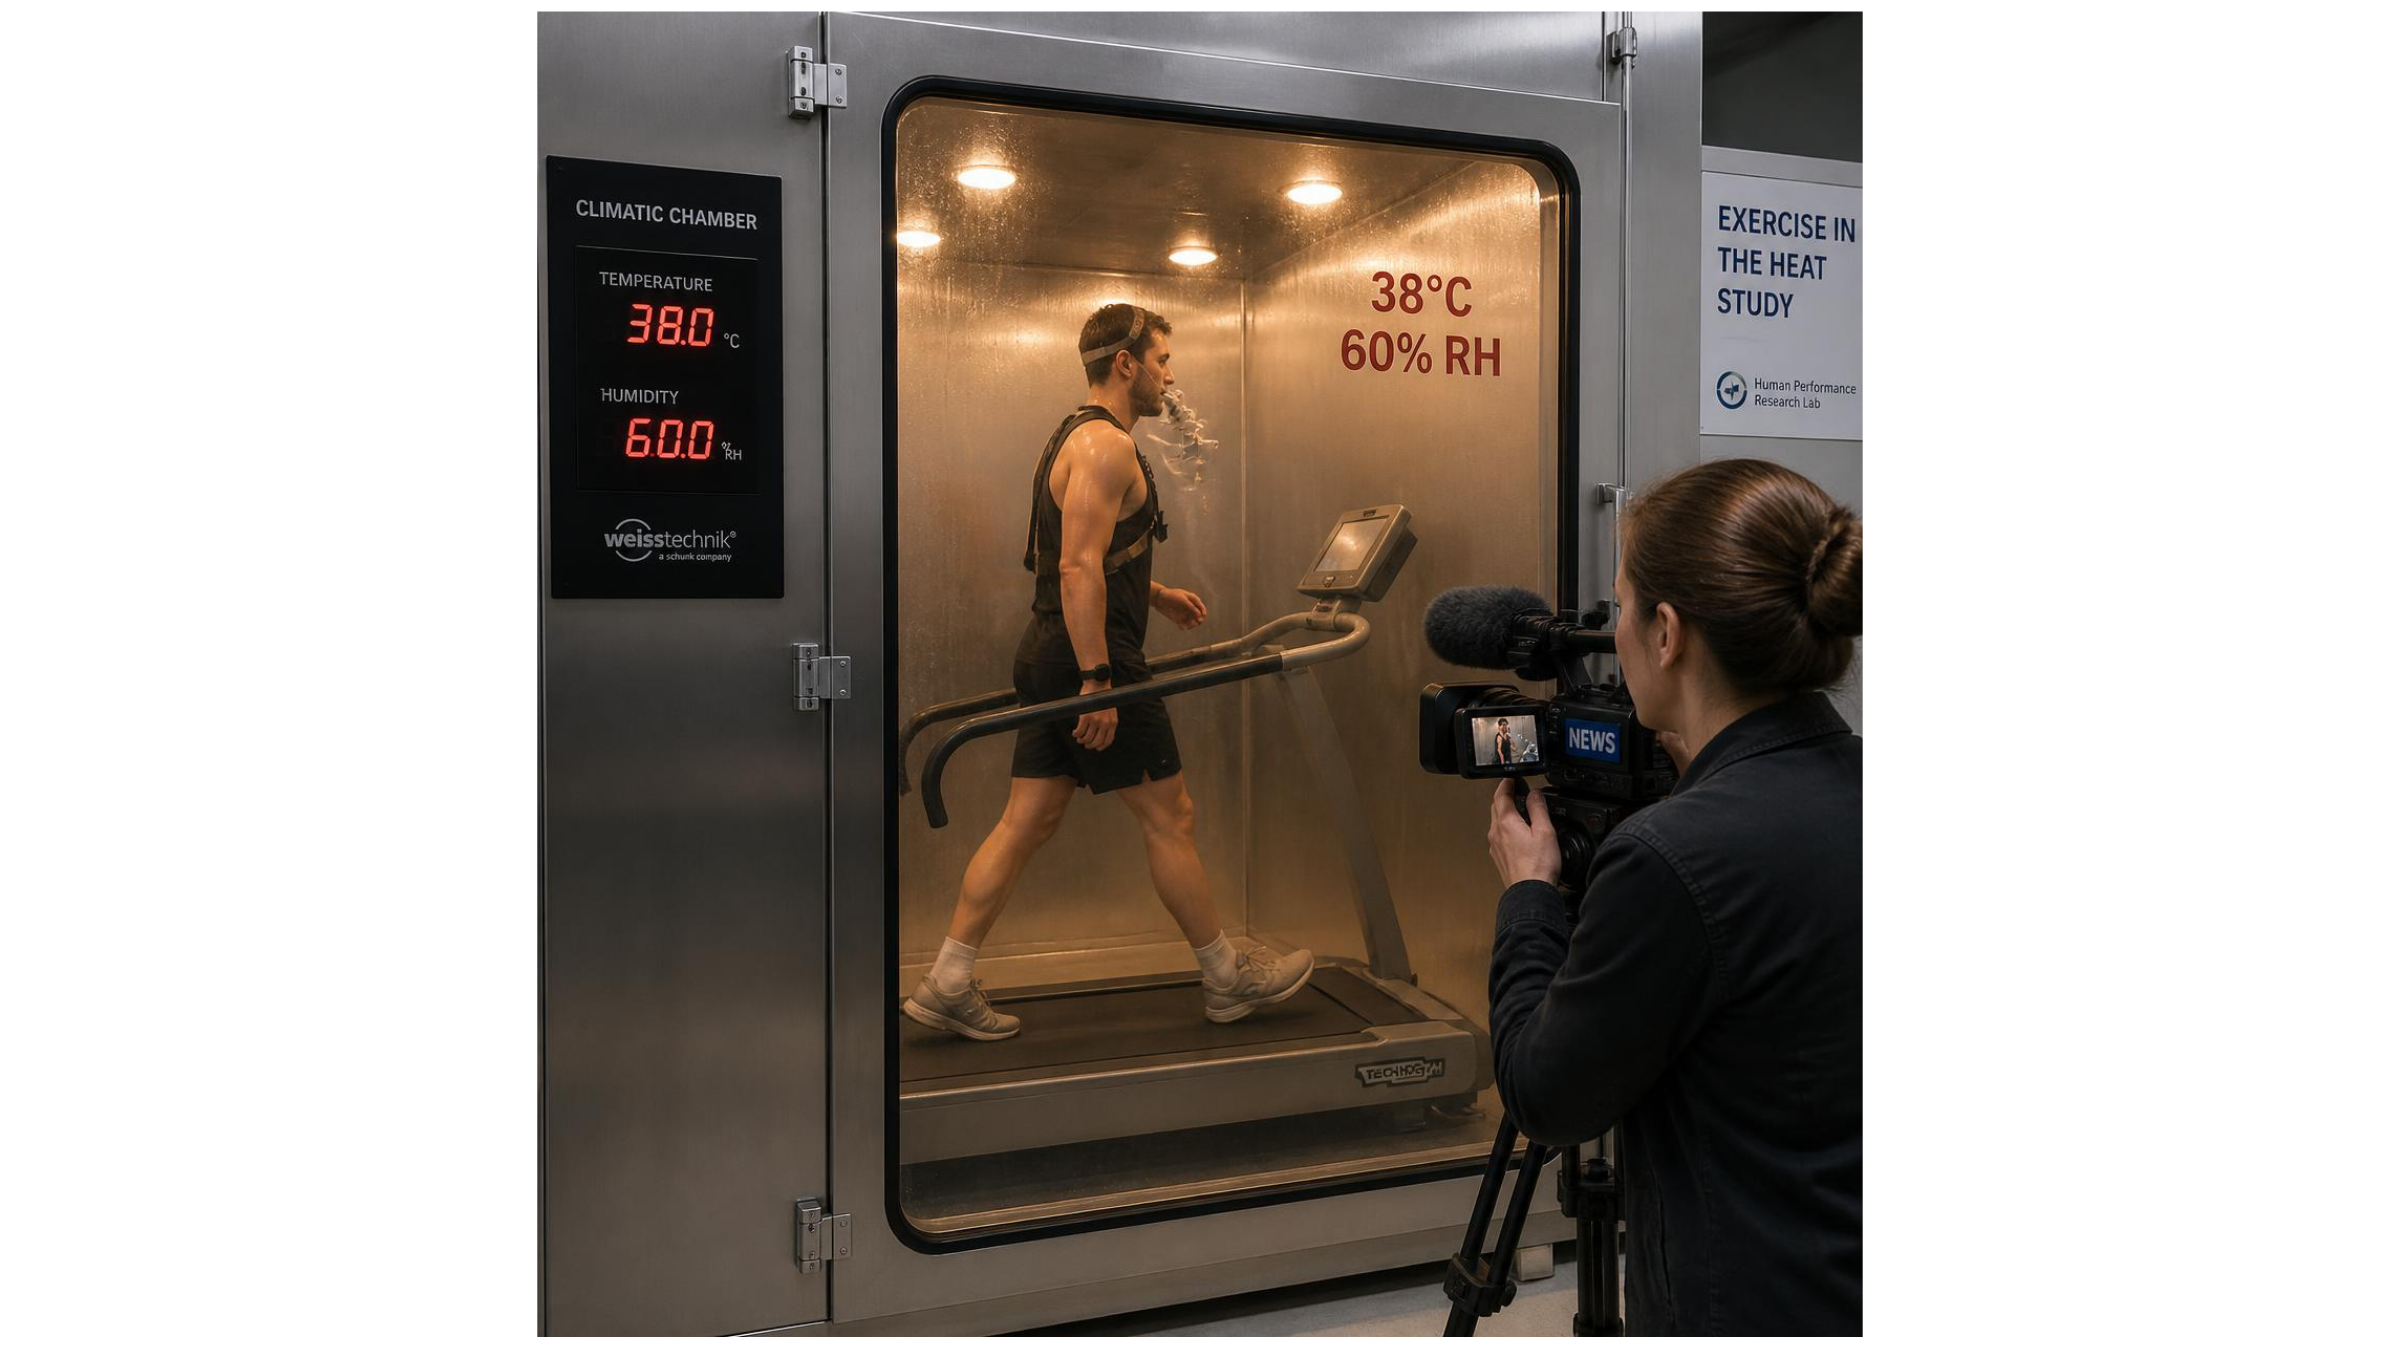
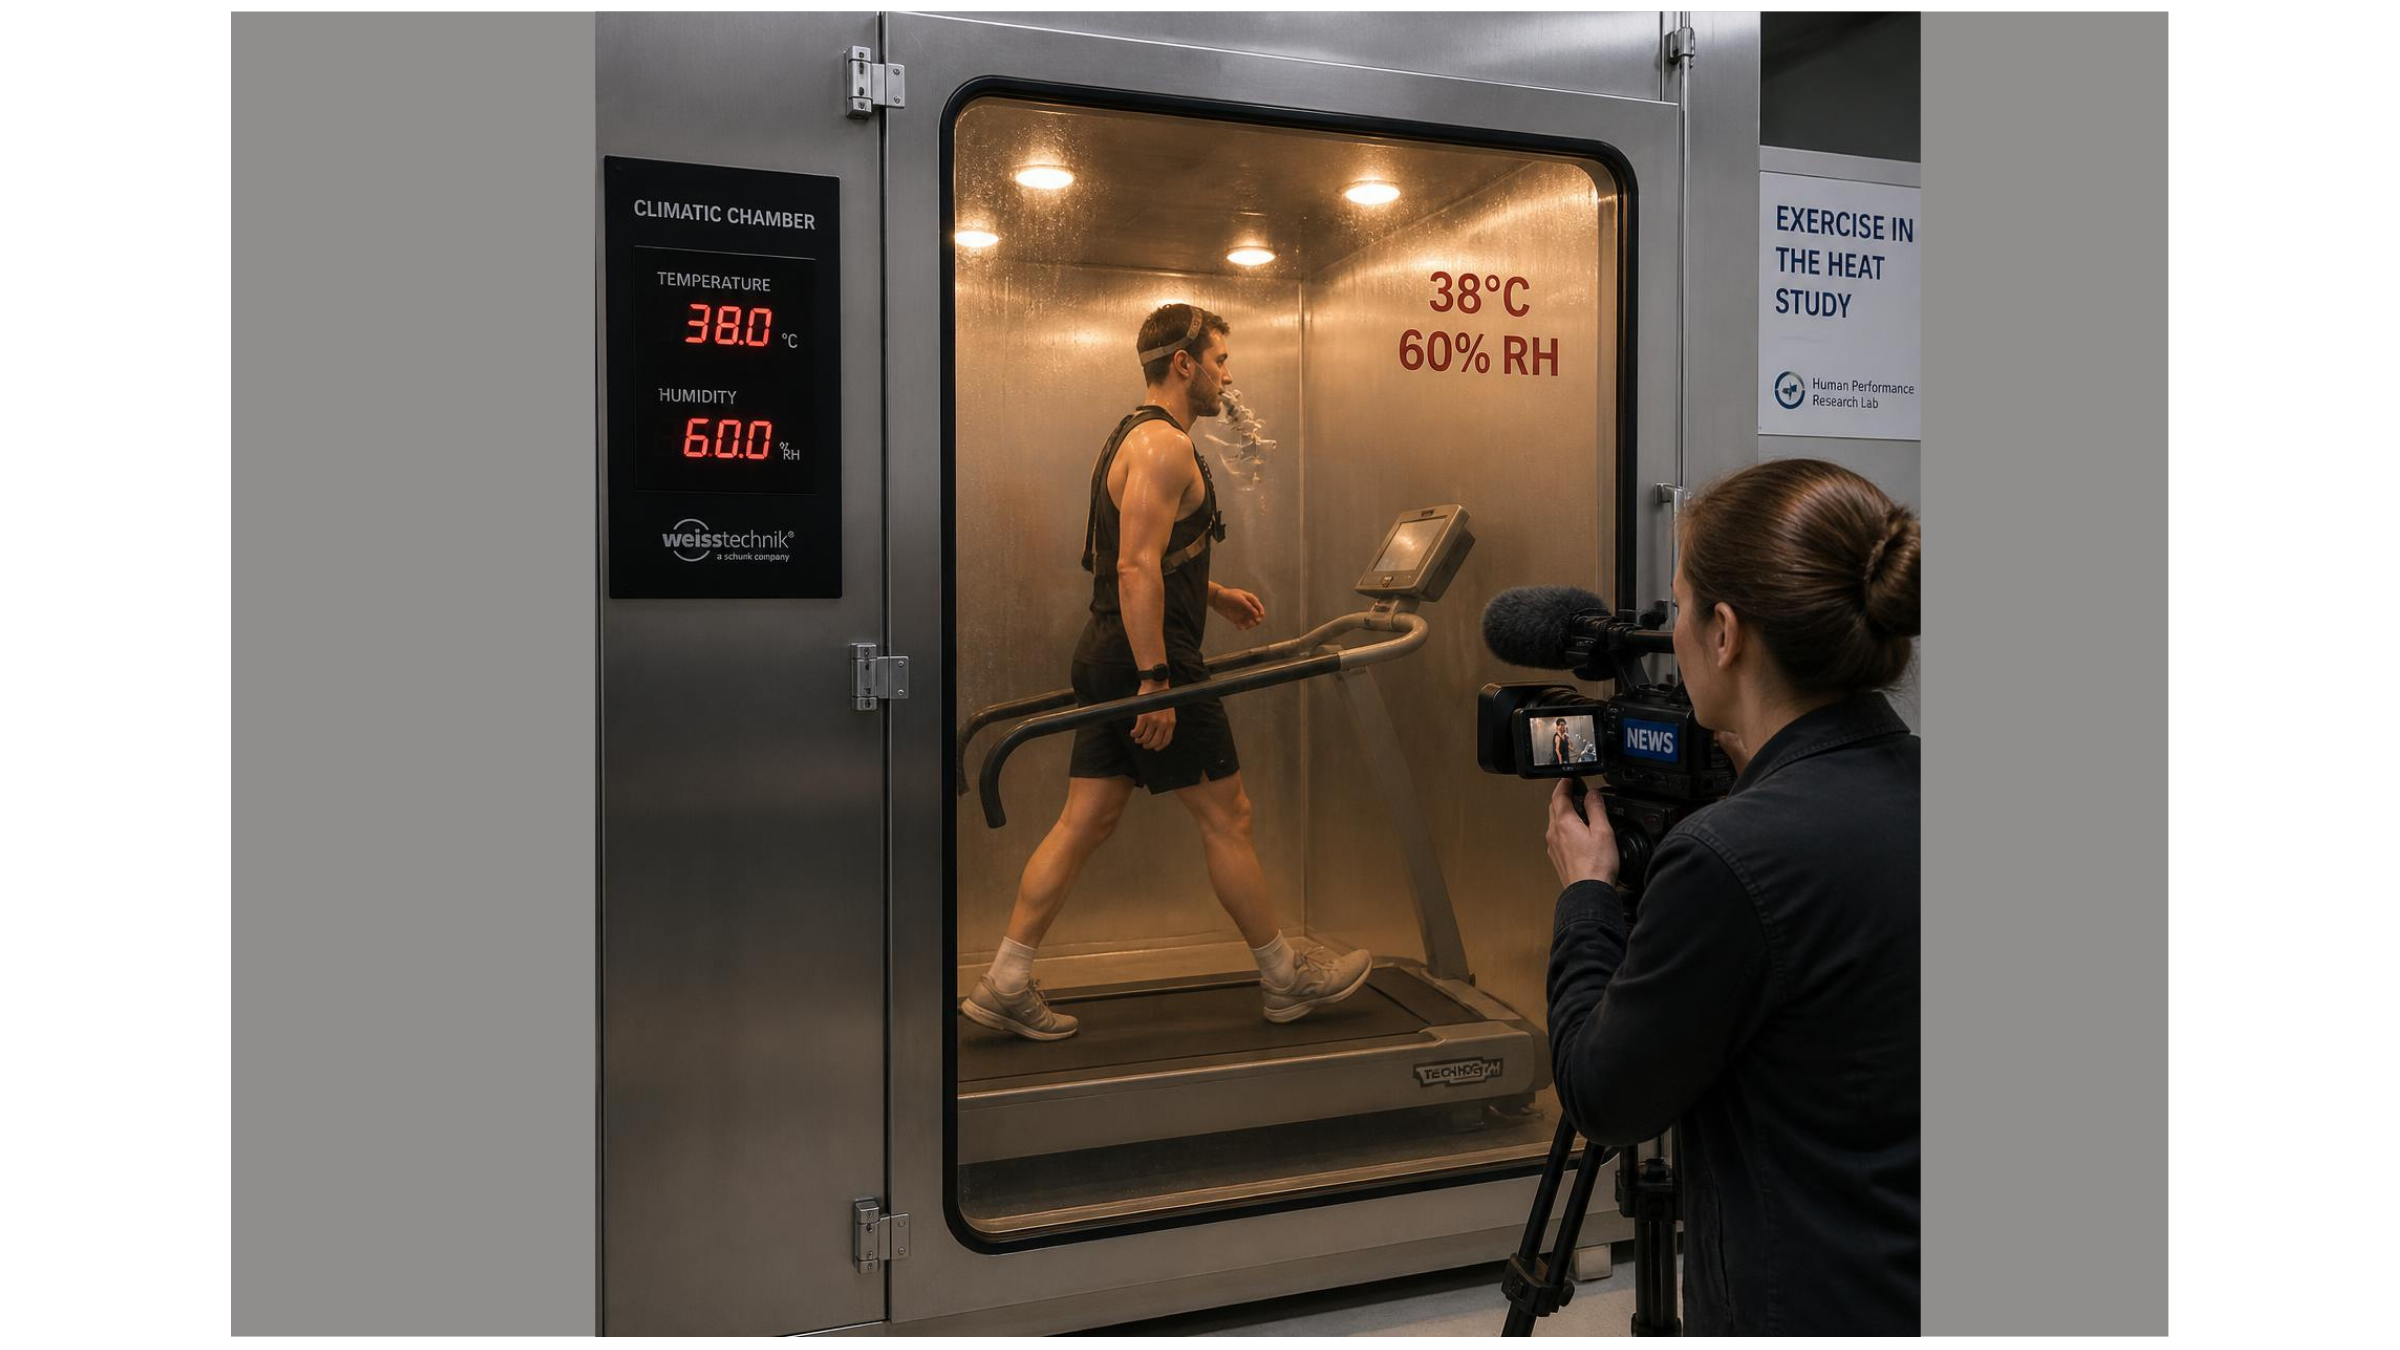
updated

diff --git a/_site/media_and_teaching/02-07-2026_RadioFM98.5/index.html b/_site/media_and_teaching/02-07-2026_RadioFM98.5/index.html
@@ -294,7 +294,7 @@ ul.task-list li input[type="checkbox"] {
 <header id="title-block-header" class="quarto-title-block default page-columns">
 <div id="title-block-header-title" class="quarto-title page-columns page-full page-layout-full featured-image p-4" style="background-image: url(featured.png), url(featured.jpg), url(../featured.jpg);">
 <h1 class="title">Radio Live on 98.5 FM - L’effet Lavallée</h1>
-<p class="subtitle lead">Direct radio sur l’impact de la chaleursur notre santé et l’intéret de comprendre les réponses physiologiques sous-jacentes.</p>
+<p class="subtitle lead">Direct radio sur l’impact de la chaleur sur notre santé et l’intéret de comprendre les réponses physiologiques sous-jacentes.</p>
     <div class="quarto-categories">
         <div class="quarto-category">Radio</div>
         <div class="quarto-category">Heat</div>

diff --git a/_site/media_and_teaching/index.html b/_site/media_and_teaching/index.html
@@ -400,7 +400,7 @@ window.Quarto = {
 
 <div class="quarto-listing quarto-listing-container-grid" id="listing-listing">
 <div class="list grid quarto-listing-cols-3">
-<div class="g-col-1" data-index="0" data-categories="UmFkaW8lMkNIZWF0JTJDSGVhbHRo" data-listing-date-sort="1782964800000" data-listing-file-modified-sort="1783044539643" data-listing-date-modified-sort="NaN" data-listing-reading-time-sort="1" data-listing-word-count-sort="134">
+<div class="g-col-1" data-index="0" data-categories="UmFkaW8lMkNIZWF0JTJDSGVhbHRo" data-listing-date-sort="1782964800000" data-listing-file-modified-sort="1783203189422" data-listing-date-modified-sort="NaN" data-listing-reading-time-sort="1" data-listing-word-count-sort="134">
 <a href="../media_and_teaching/02-07-2026_RadioFM98.5/index.html" class="quarto-grid-link">
 <div class="quarto-grid-item card h-100 card-center">
 <p class="card-img-top">